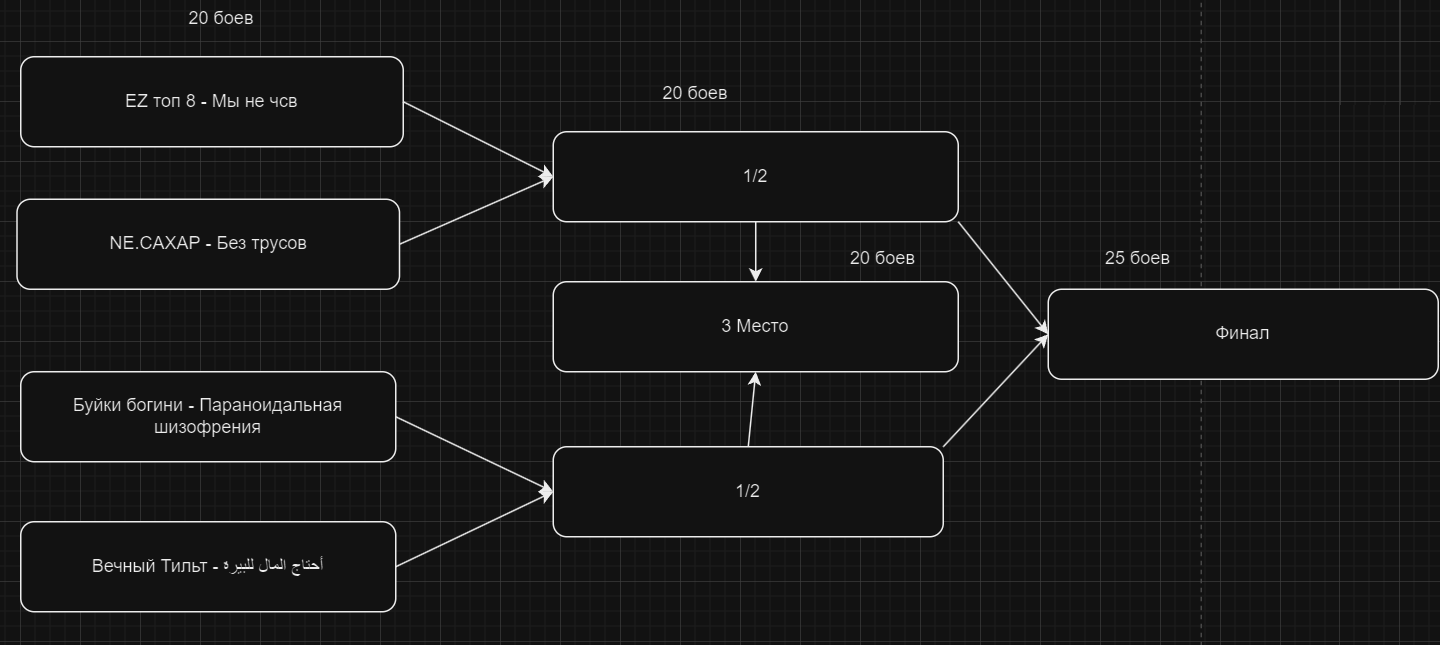
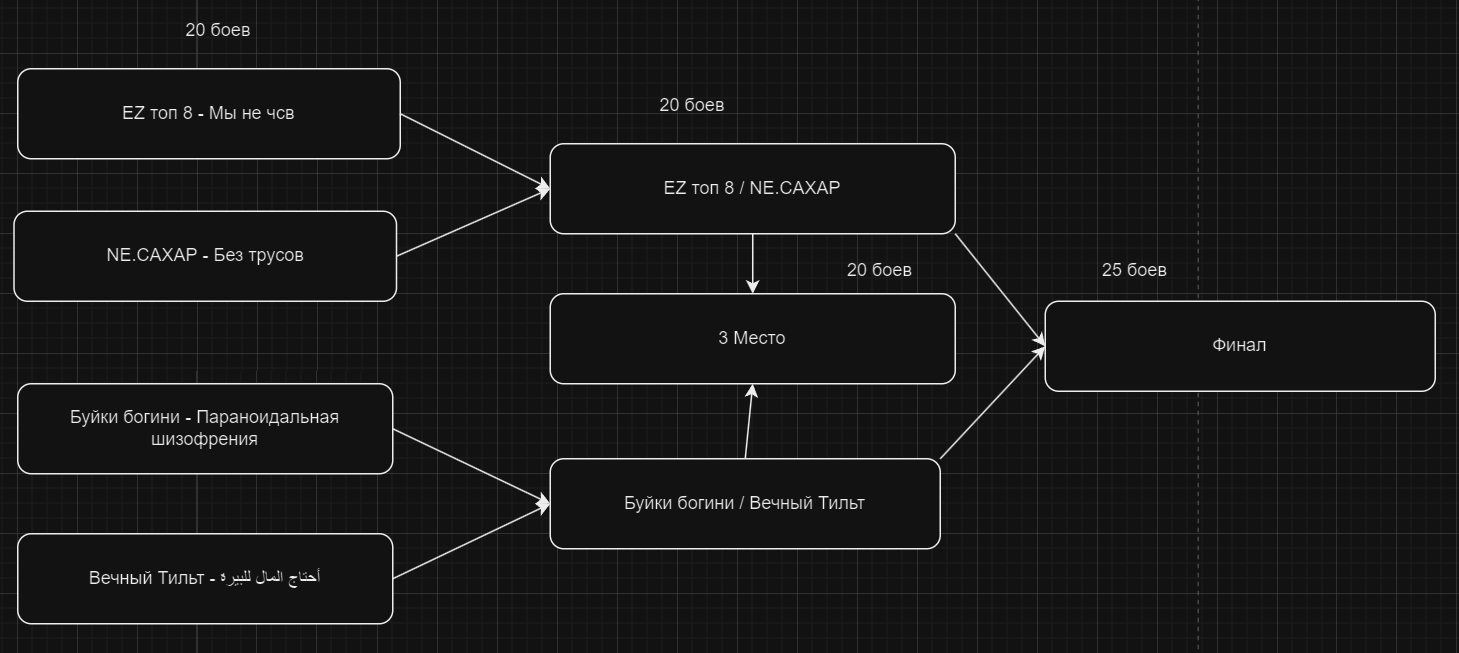
semi-finals

diff --git a/regulation.html b/regulation.html
@@ -65,7 +65,7 @@
                 <li>18-20 Апреля – проходит Групповой этап </li>
                 <li>21-23 Апреля – проходит Плей-офф (1/4)</li>
                 <li>24-26 Апреля – проходит Плей-офф (1/2)</li>
-                <li>27-28 Апреля – проходит Финал  (надо договориться чтобы финалисты играли в одно время)</li>
+                <li>27-28 Апреля – проходит Финал + 3 место (надо договориться чтобы финалисты играли в одно время)</li>
             </ul>
             <p class="dop">* Даты и время могут менятся при необходимости  </p>
             <p>Проходят все команды.На основе результатов строиться сетка Плей-офф:</p>
